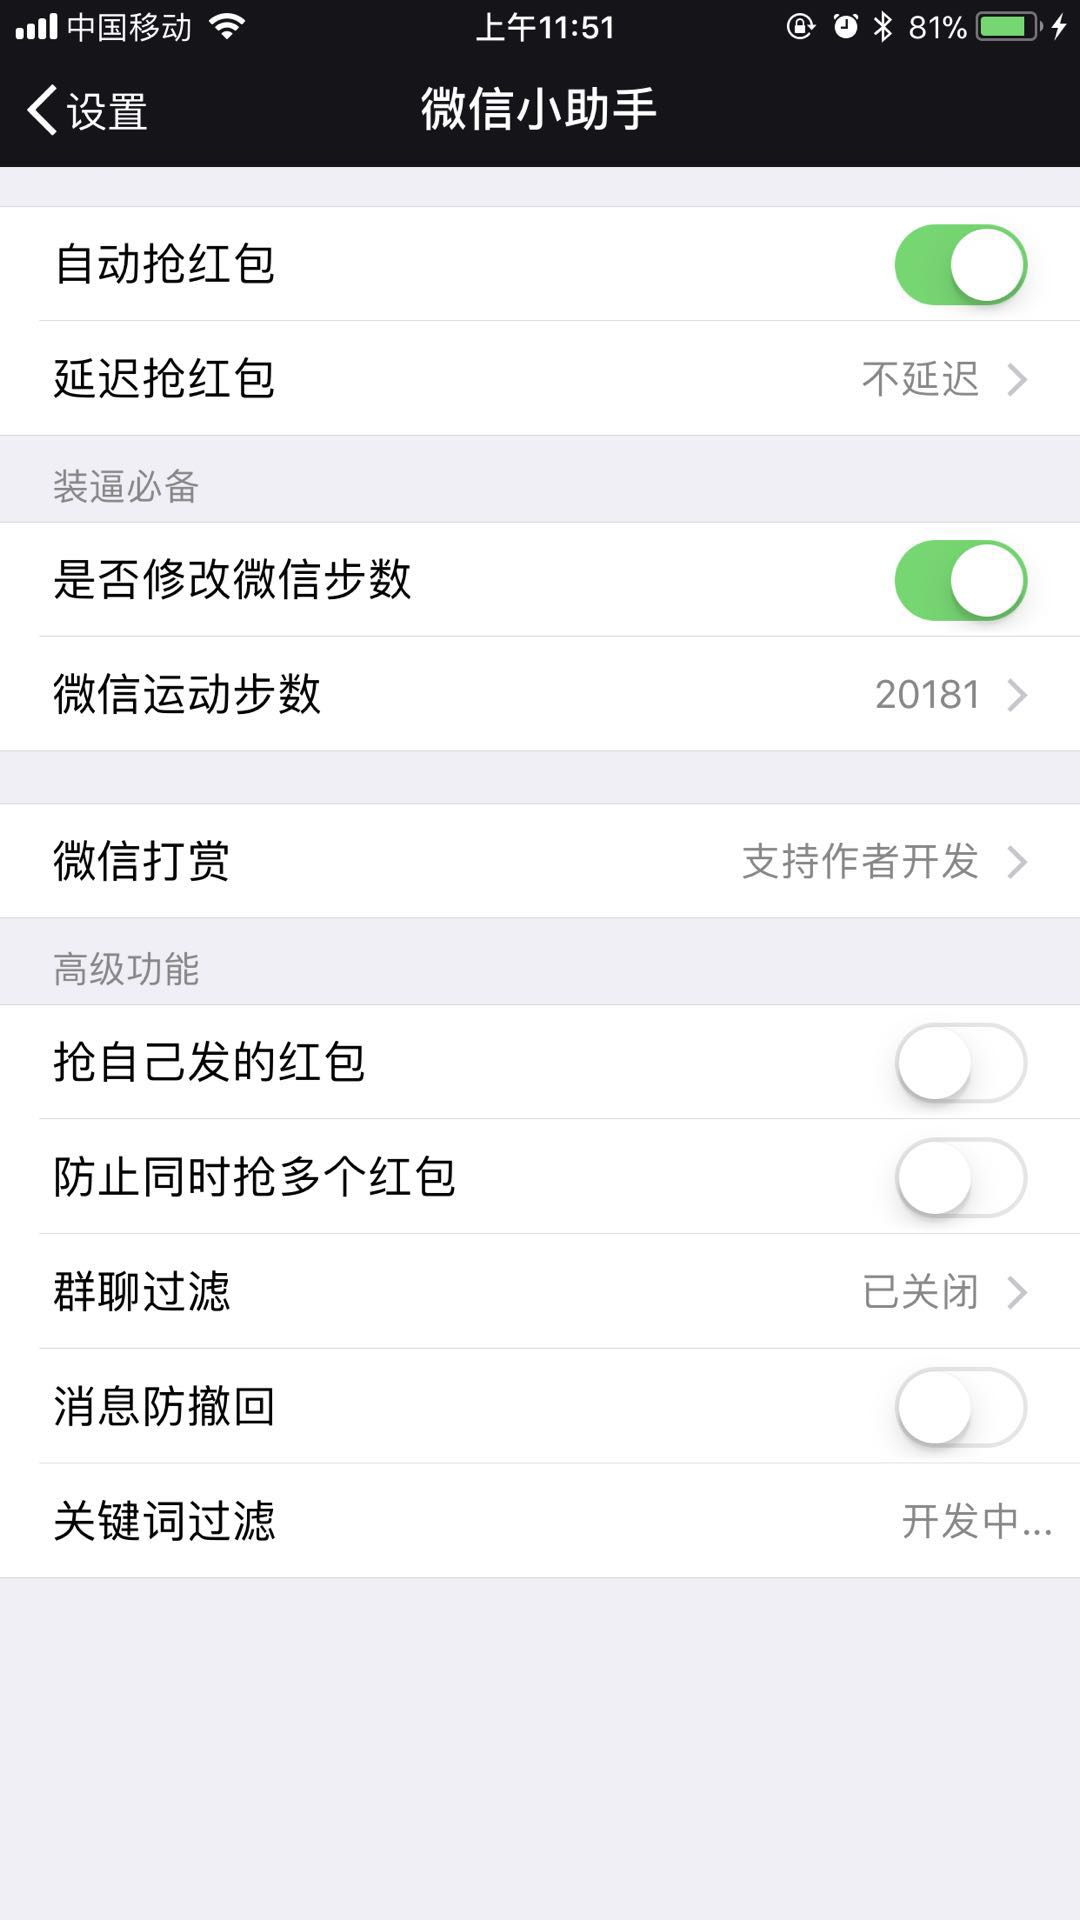
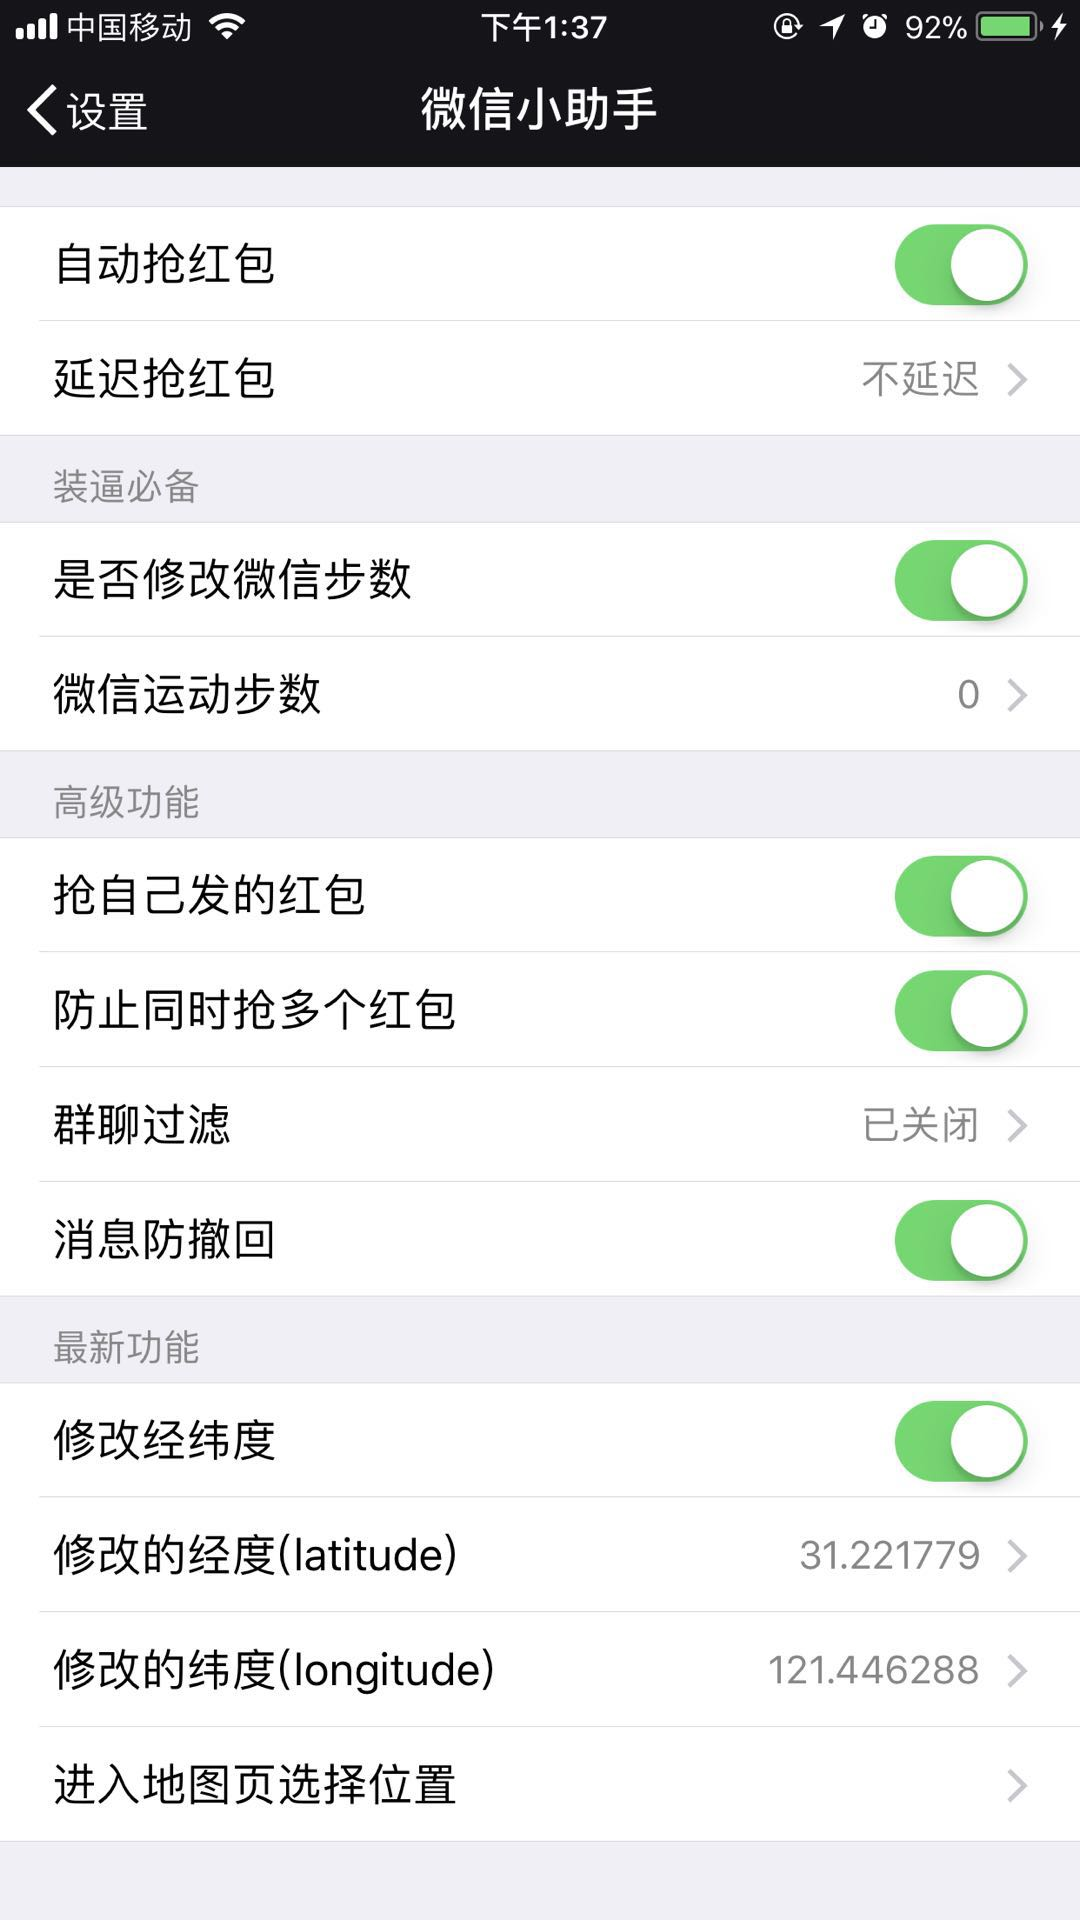
更新功能

diff --git a/README.md b/README.md
@@ -10,6 +10,8 @@
 - [x] 抢自己的红包
 - [x] 防止多人同时抢红包
 - [x] 群聊过滤
+### 装逼新秀
+- [x] 修改地理位置
 
 ### 截图
 
@@ -35,8 +37,8 @@
 #### 2. 生成注入的app文件
 
 * 可直接通过百度云下载
-链接:https://pan.baidu.com/s/1dGCAMRn  密码:l6ie(微信版本 6.6.1)
-
+old:链接:https://pan.baidu.com/s/1i6Z3Aw1  密码:5q8k(微信版本 6.6.1)
+new:链接:https://pan.baidu.com/s/1smjMyFN  密码:l0cj(微信版本 6.6.1,增加修改地理位置功能)
 #### 3. 使用`iOS App Signer.app` 进行重签名
 
 ![iOS App Signer.app.png](http://upload-images.jianshu.io/upload_images/965383-c3daf12a77c8204b.png?imageMogr2/auto-orient/strip%7CimageView2/2/w/1240)
